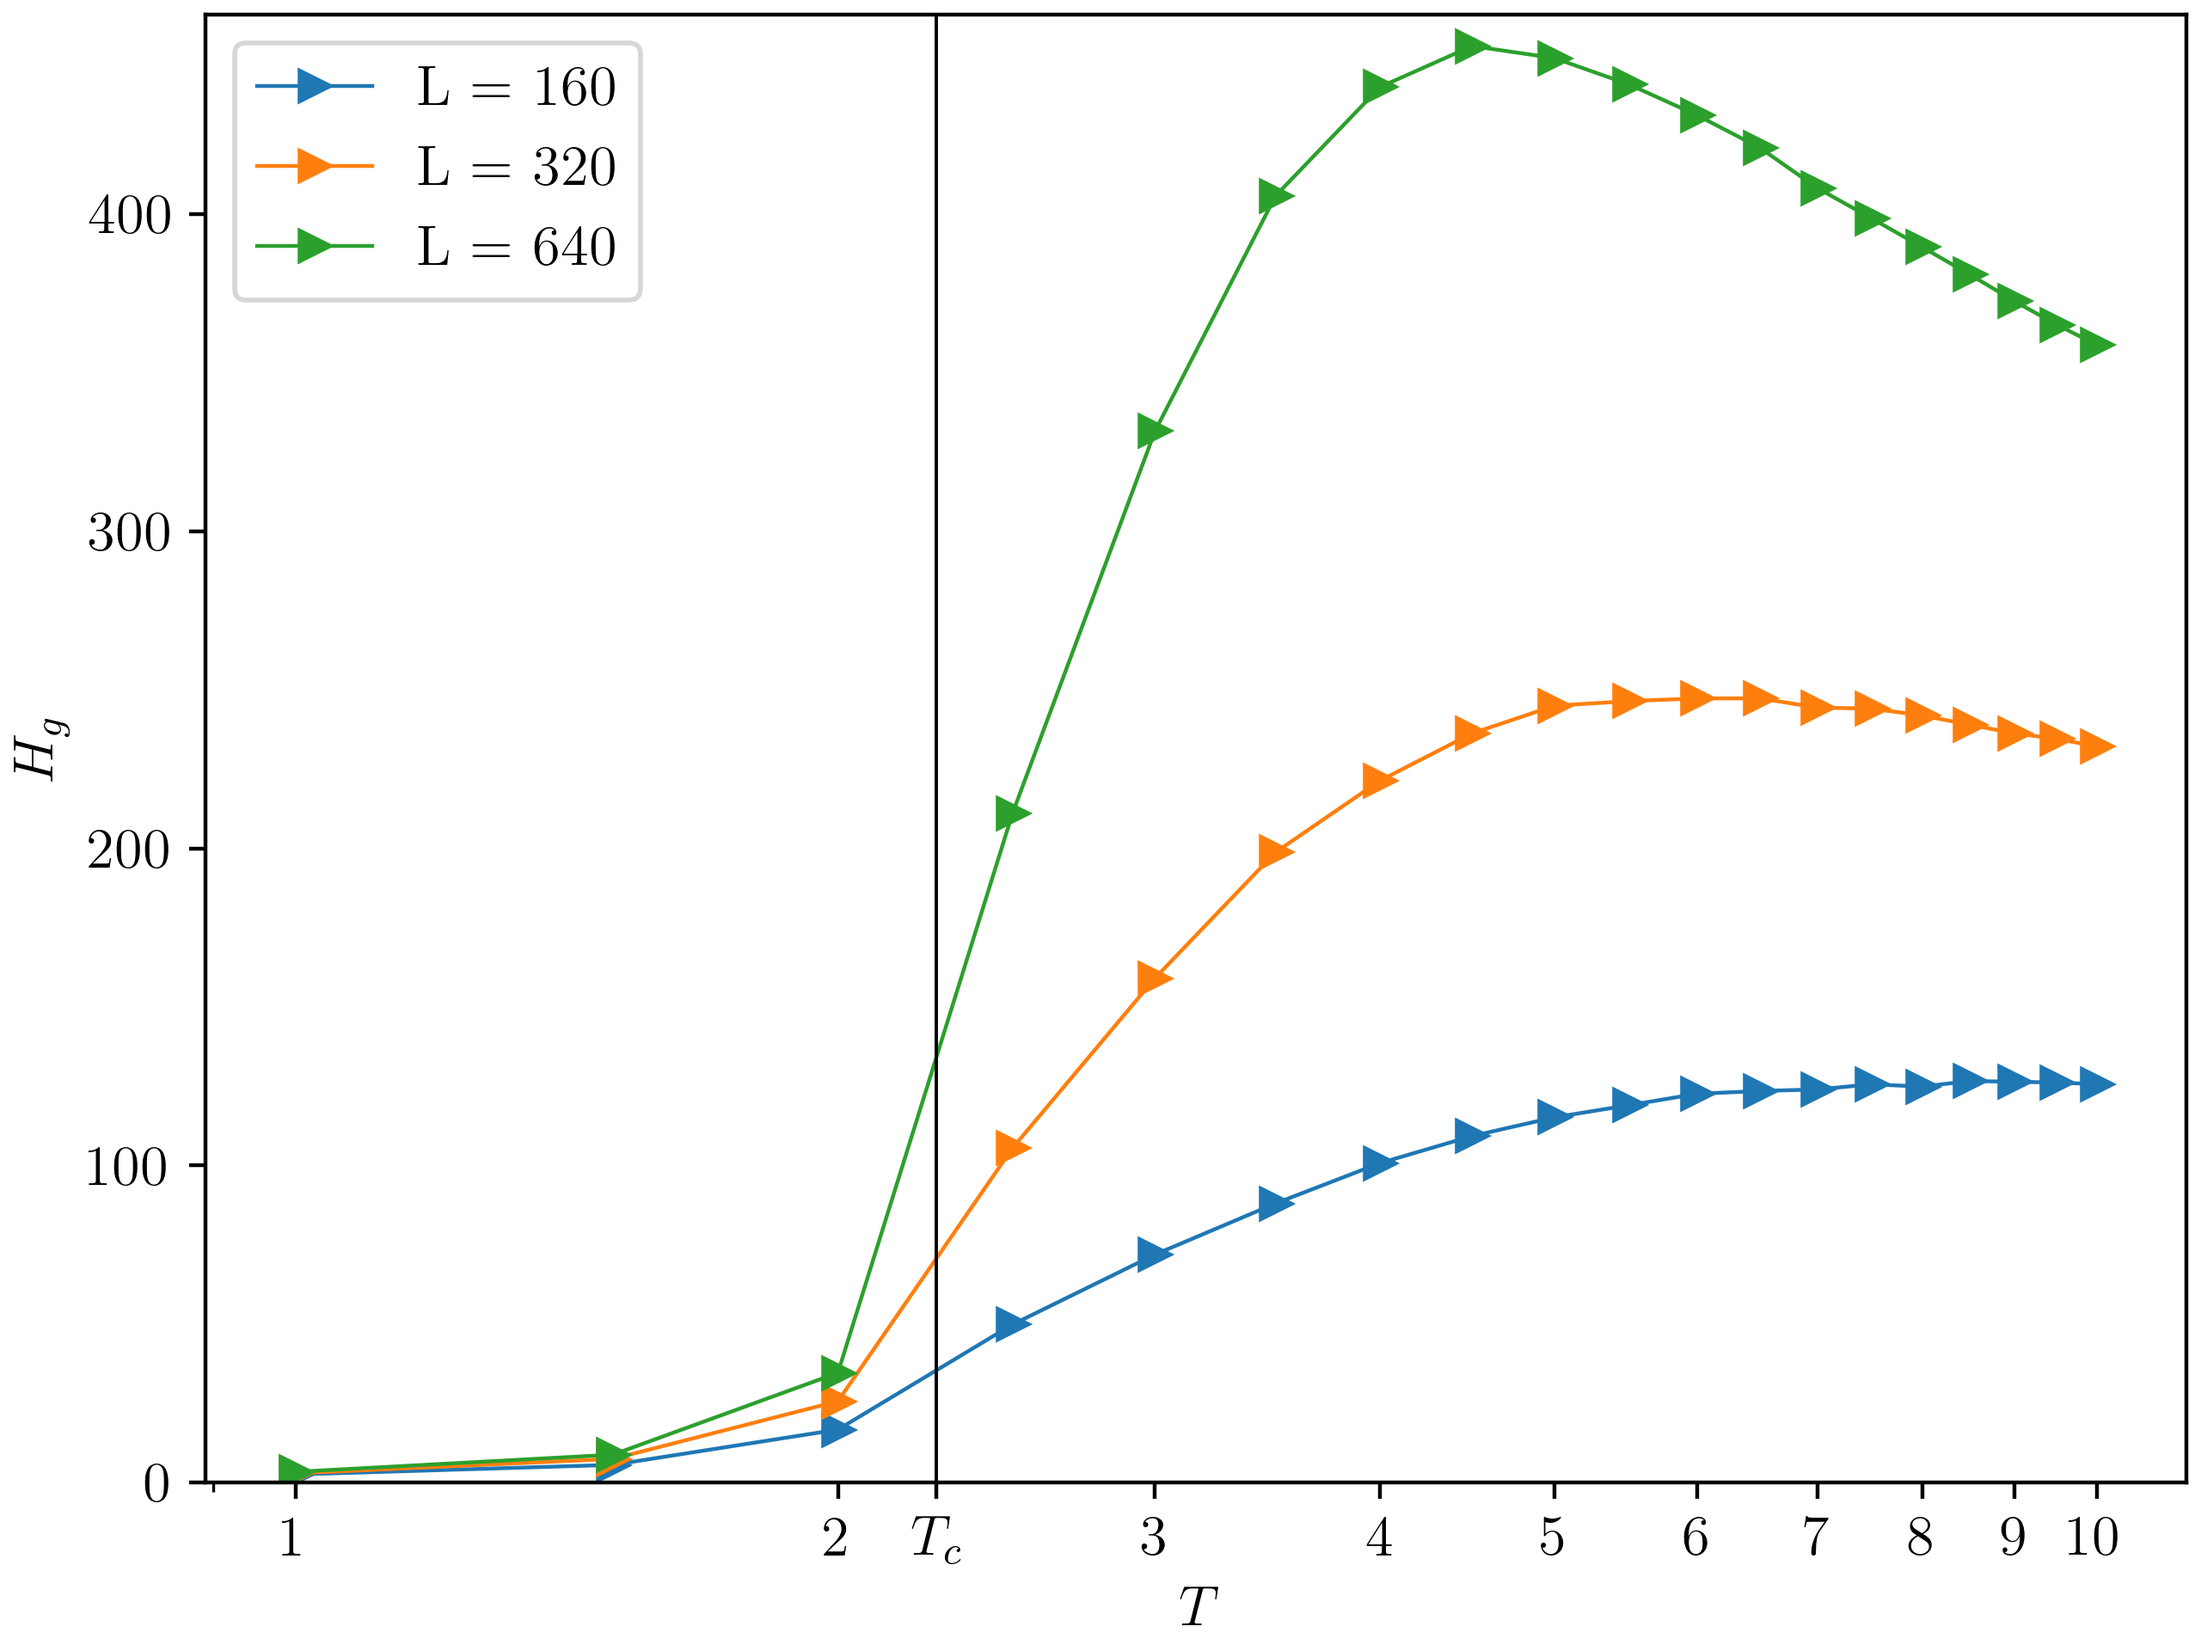
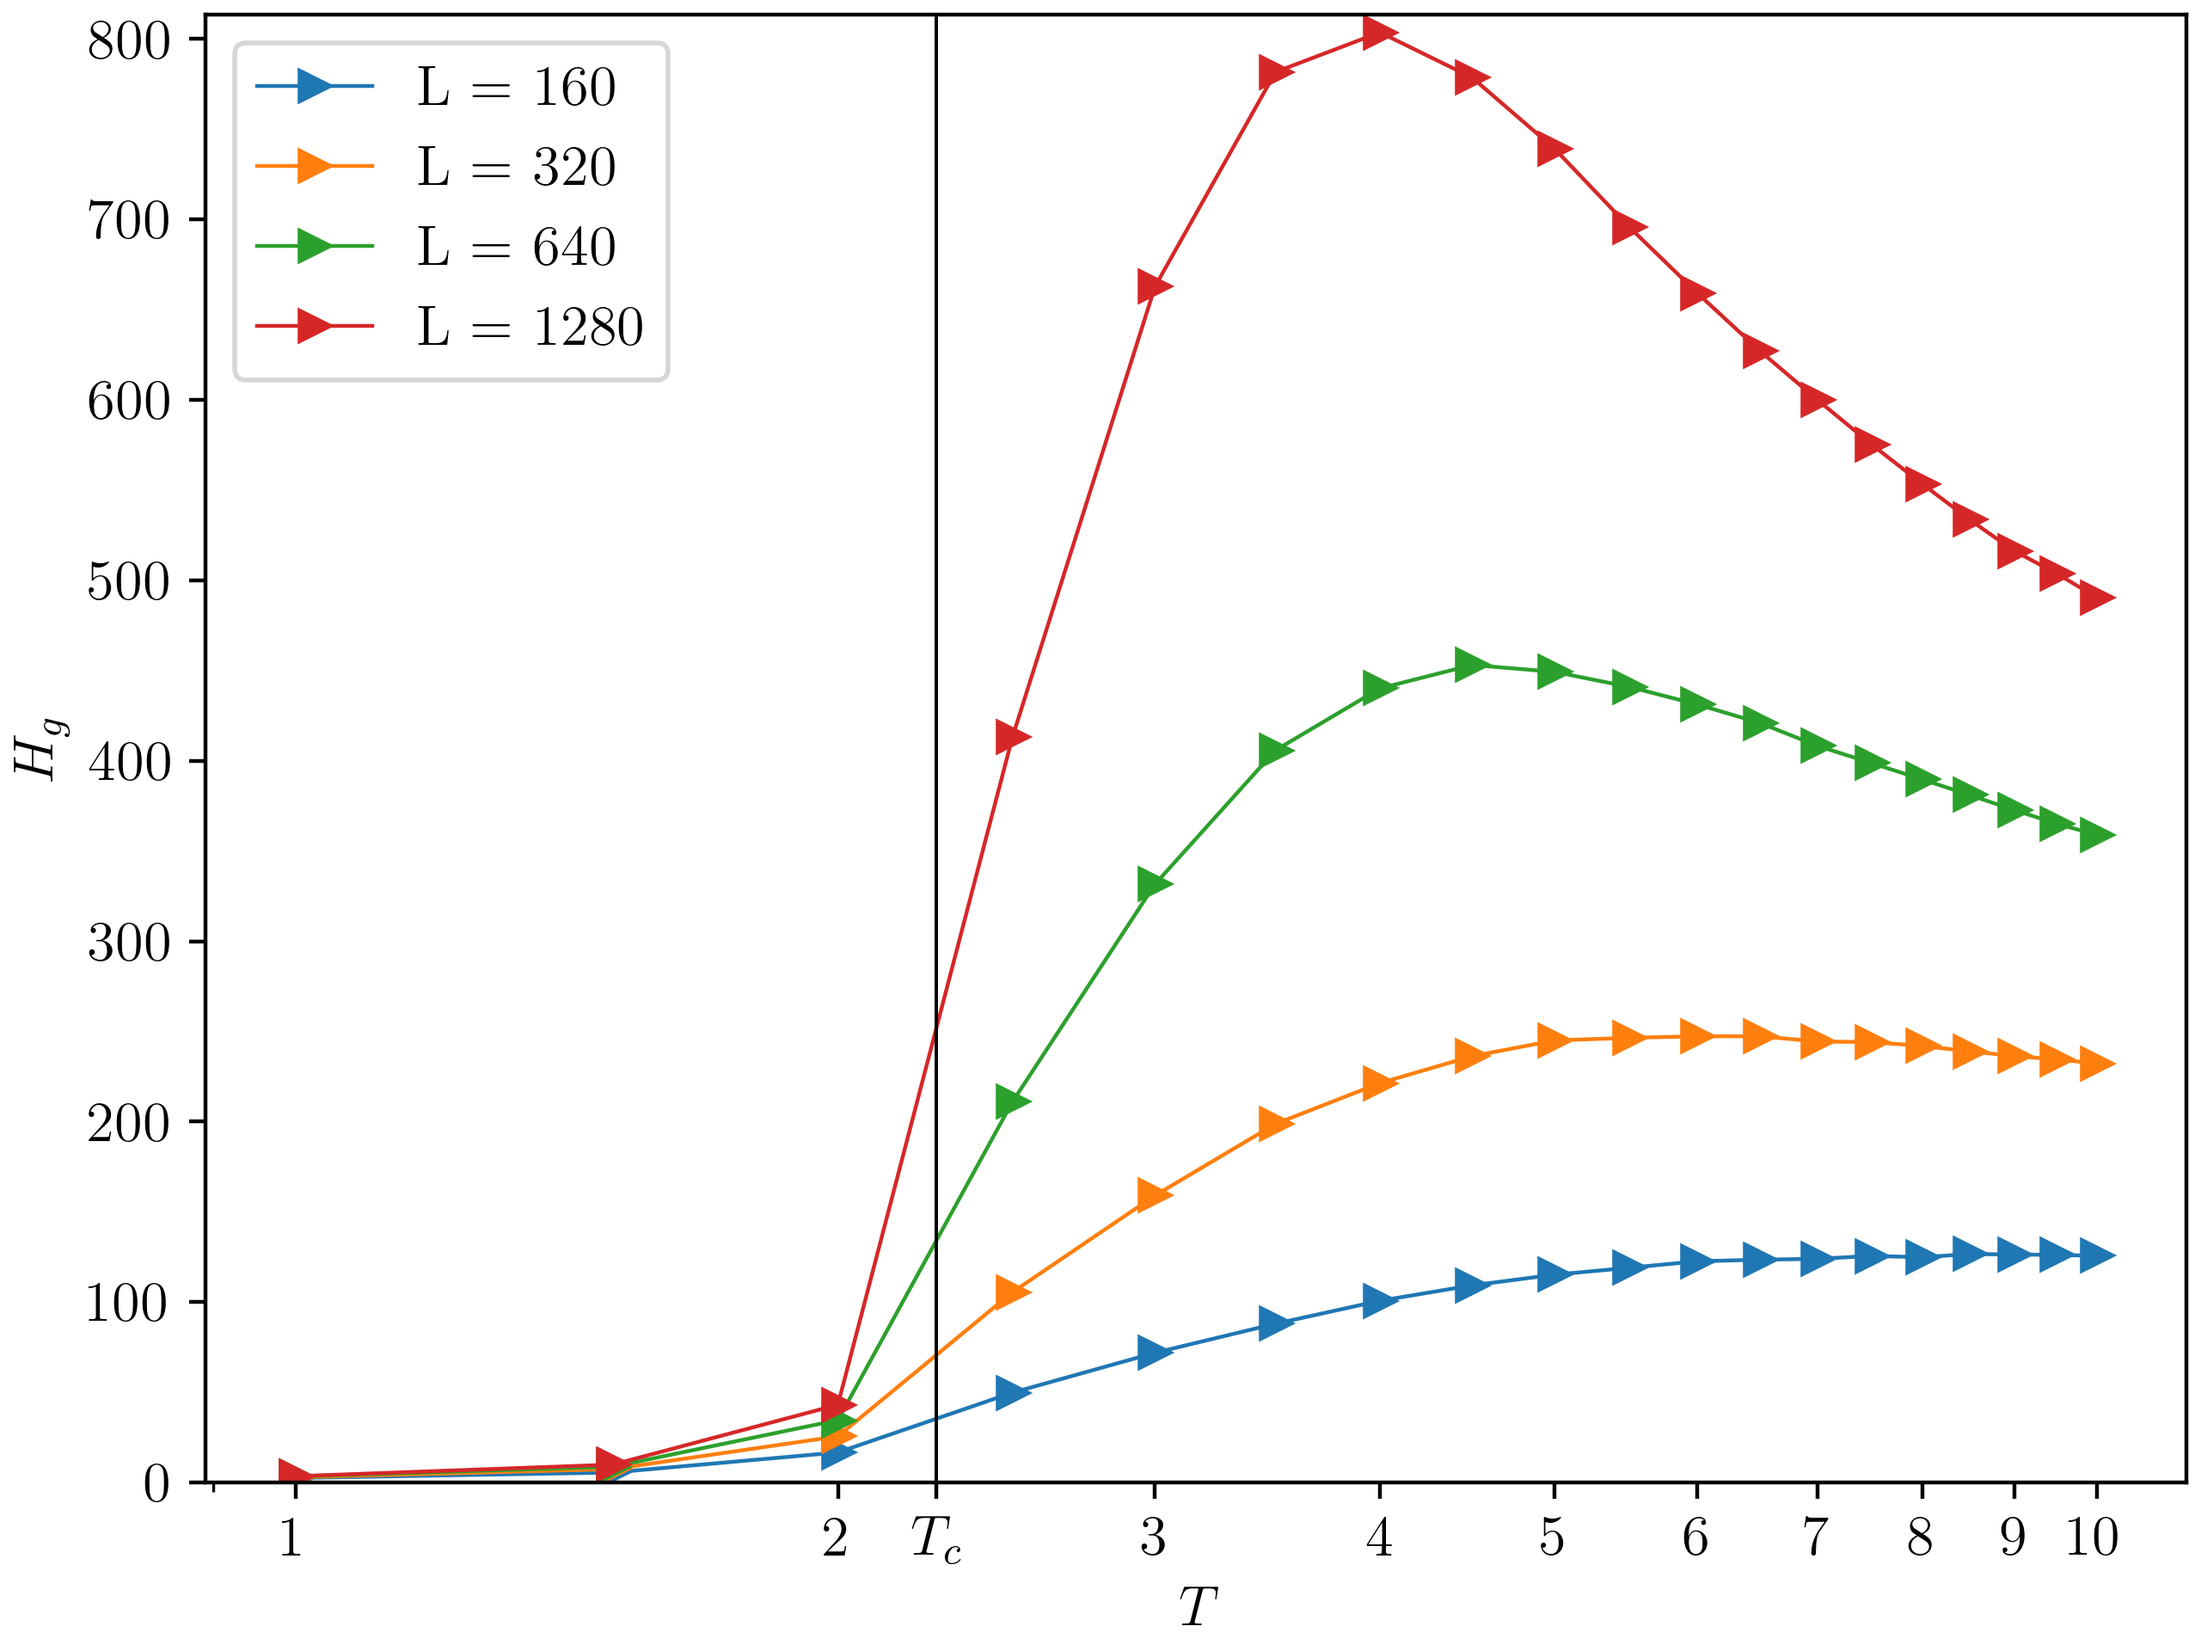
Atualização

diff --git a/ising/ising2D.c b/ising/ising2D.c
@@ -1,5 +1,4 @@
 /*
-
 Esse código performa uma simulação do Modelo de Ising-2D de acordo com os parâmetros definidos
 
 As medidas que podem ser feitas nessa versão são:
@@ -10,7 +9,7 @@ As medidas que podem ser feitas nessa versão são:
 - Identificação de clusters
 - Geometric domain-size heterogeneity
 
-gcc ising2D.c lib.c -O3 -lm
+gcc ising2D.c lib.c -O3 -lm -g -Wall
 
 ELE NÃO CRIA A PASTA, ELE SÓ RECEBE O NOME DELA E BOTA OS ARQUIVOS LÁ
 
@@ -26,7 +25,7 @@ ELE NÃO CRIA A PASTA, ELE SÓ RECEBE O NOME DELA E BOTA OS ARQUIVOS LÁ
 #include "lib.h"
 
 #define PASTA "samples_L_640" // Define o nome da pasta na qual serão guardados os arquivos de saída 
-#define SEED 1702107985          // Define a Seed: se 0 pega do relogio do sistema
+#define SEED 1702064765          // Define a Seed: se 0 pega do relogio do sistema
 #define L 640           // Aresta da Rede
 #define STEPS 1000      // Número de MCS no equilíbrio
 #define RND 1           // 0: inicialização da rede toda com spin 1 || 1: inicialização aleatória da rede
@@ -76,13 +75,15 @@ int main(int argc, char *argv[]){
     sprintf(saida6,     "%s/CLS_%s_%d.dat", PASTA, shared, seed);
     sprintf(saida7,    "%s/snap_%s_%d.dat", PASTA, shared, seed);
 
-    medidas = fopen(saida1, "a");
-    FILE *img = fopen(saida2, "w");
-    FILE *ci = fopen(saida3, "w");
-    FILE *cr = fopen(saida4, "a");
-    FILE *hk = fopen(saida5, "w");
-    FILE *cls = fopen(saida6, "w");
-    FILE *snap = fopen(saida7, "w");
+    FILE *img, *ci, *cr, *hk, *cls, *snap;
+
+    if(MES)           medidas = fopen(saida1, "a");
+    if(IMG)           img = fopen(saida2, "w");
+    if(CI)            ci = fopen(saida3, "w");
+    if(CR > 0)        cr = fopen(saida4, "a");
+    if(HK > 0)        hk = fopen(saida5, "w");
+    if(CLS && HK > 0) cls = fopen(saida6, "w");
+    if(SNAP)          snap = fopen(saida7, "w");
 
     FILE *info = fopen(arkinfo, "a");
 
@@ -185,7 +186,7 @@ int main(int argc, char *argv[]){
     double time = (double)(toc-tic)/CLOCKS_PER_SEC;
 
     //_________________________________FIM DA SIMULAÇÃO_____________________________________________ 
-    fprintf(medidas, "-1\t-1\t-1\t-1\n"); 
+    if(MES) fprintf(medidas, "-1\t-1\t-1\t-1\n"); 
 
     fprintf(info, "-*-*-*-*-*-*-| NEW RUN |-*-*-*-*-*-*-*-*-*\n");
     fprintf(info,    "SEED %d\n", seed);
@@ -198,19 +199,14 @@ int main(int argc, char *argv[]){
     fprintf(info, "TRANS %d\n\n", TRANS);
     fprintf(info, "Execution time: %lf s | %lf min\n", time, time/60.);
  
-    fclose(info); 
-    fclose(medidas);
-    fclose(img);
-    fclose(ci);
-    fclose(cr);
-    fclose(hk);
-    if(MES == 0) remove(saida1);
-    if(!IMG) remove(saida2);
-    if(!CI) remove(saida3);
-    if(CR == 0) remove(saida4);
-    if(HK == 0) remove(saida5);
-    if(CLS == 0) remove(saida6);
-    if(SNAP == 0) remove(saida7);
+    if(MES)           fclose(medidas);
+    if(IMG)           fclose(img);
+    if(CI)            fclose(ci);
+    if(CR > 0)        fclose(cr);
+    if(HK > 0)        fclose(hk);
+    if(CLS && HK > 0) fclose(cls);
+    if(SNAP)          fclose(snap);
+    fclose(info);
 
     return 0;
 }

diff --git a/ising/lib.c b/ising/lib.c
@@ -135,9 +135,20 @@ void hoshenkopelman(int *sis, int **viz, int *hk, int *hksize, int N){
 
     // Union of clusters
     for(int i = 0; i < N; ++i){
-        if(sis[i] == sis[viz[i][1]]) unionfind(i, viz[i][1], hk, viz);
-        if(sis[i] == sis[viz[i][2]]) unionfind(i, viz[i][2], hk, viz);
+        printf("i = %d\n", i);
+        if(sis[i] == sis[viz[i][1]]){
+            printf("i_up = %d\n", viz[i][1]);
+            unionfind(i, viz[i][1], hk, viz);
+        }
+        if(sis[i] == sis[viz[i][2]]){
+            printf("i_l = %d\n", viz[i][2]);
+            unionfind(i, viz[i][2], hk, viz);
+        }
+        printf("*-*-*-*-*-*-*-*-*-*-*-*-*-*-*-*-*\n");
     }
+
+    // DEU SEGFAULT NO i = 408960 quando entrou no viz[i][2]
+
     // Mesure size of clusters
     memset(hksize, 0, N*sizeof(*hksize));
     for(int i = 0; i < N; ++i) hksize[hk[i]] += 1;
@@ -148,6 +159,7 @@ void unionfind(int i, int j, int *hk, int **viz){
 Decides wich label to use and then calls a recursive function
 to change the label
 */
+    
     if(hk[i] > hk[j]) recurlabel(hk, viz, i, hk[i], hk[j]);
     if(hk[i] < hk[j]) recurlabel(hk, viz, j, hk[j], hk[i]);
 }
@@ -157,7 +169,6 @@ void recurlabel(int *hk, int **viz, int i, int labeli, int labelf){
 Searches recursively for more labels of the same value and then finally
 changes all of them
 */
-
     if(-hk[viz[i][0]] == -labeli){
         hk[i] *= -1; 
         recurlabel(hk, viz, viz[i][0], labeli, labelf);

diff --git a/ising/heterogeneity.py b/ising/heterogeneity.py
@@ -6,7 +6,7 @@ import os
 plt.rcParams.update({"text.usetex" : True, "font.family" : "serif", "font.serif" : ["Computer Modern Serif"], "font.size" : 12})
 
 
-L = [160, 320, 640]
+L = [160, 320, 640, 1280]
 TI = 1.
 TF = 10.
 dT = 0.5
